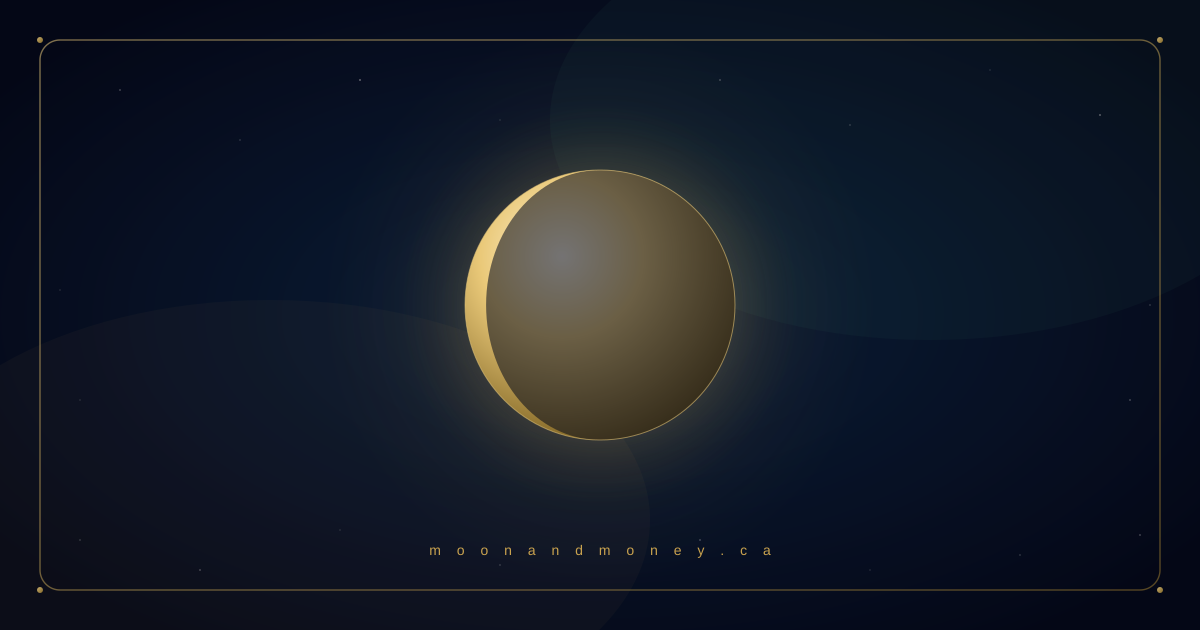
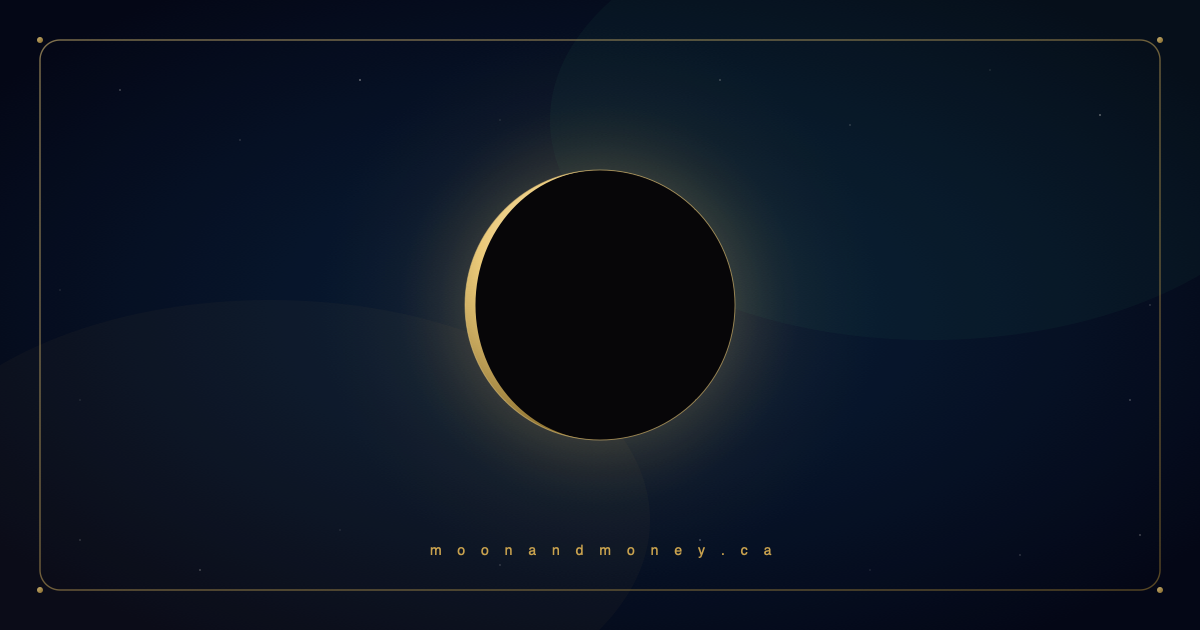
OG moon matches the hero: solid obsidian shadow at full opacity
Laura 2026-06-12: 'make the OG black in the middle at new moon so
it matches the hero on the homepage. Black and gold depending on
what phase the moon is in.'

scripts/og-moon-phase.py:
  SHADOW_OPACITY  0.55  → 1.0       (solid, no luminous-through)
  SHADOW_FILL    #03081A → #070608  (--obsidian, matches site)

This makes the OG read exactly like .moon-shadow on the homepage:
solid black at new moon, solid gold at full moon, half-and-half at
the quarters. The previous "keep the gold luminous underneath"
design is intentionally out — Laura wants the literal phase look.

Regenerated social.png for today (phase 0.94, waning crescent, ~4%
illuminated — thin gold sliver on the left, solid black disc).
Cache-buster bumped to ?v=20260613 in all 26 HTML pages so social
crawlers refetch immediately.

The existing daily GitHub Action (.github/workflows/og-moon-phase.yml)
will re-fire tomorrow at 04:17 UTC and every subsequent morning, so
the share preview tracks the actual sky on its own.

Changed region(s): [[0.37, 0.2714, 0.6167, 0.7238]]

diff --git a/about.html b/about.html
@@ -6,11 +6,11 @@
 <title>The Ethos · Moon &amp; Money</title>
 <meta name="description" content="The story behind Moon & Money and Luna Wilde. Where astrology meets personal finance, and where the brand is going next."><meta property="og:type" content="website">
 <meta property="og:site_name" content="Moon &amp; Money">
-<meta property="og:image" content="https://moonandmoney.ca/assets/og/social.png?v=20260612">
+<meta property="og:image" content="https://moonandmoney.ca/assets/og/social.png?v=20260613">
 <meta property="og:image:width" content="1200">
 <meta property="og:image:height" content="630">
 <meta name="twitter:card" content="summary_large_image">
-<meta name="twitter:image" content="https://moonandmoney.ca/assets/og/social.png?v=20260612">
+<meta name="twitter:image" content="https://moonandmoney.ca/assets/og/social.png?v=20260613">
 
 <link rel="preconnect" href="https://fonts.googleapis.com">
 <link rel="preconnect" href="https://fonts.gstatic.com" crossorigin>

diff --git a/archive.html b/archive.html
@@ -6,11 +6,11 @@
 <title>The Archive · Moon &amp; Money</title>
 <meta name="description" content="The Moon & Money archive. Every Friday reading, free to read in full. Personal finance, read through astrology."><meta property="og:type" content="website">
 <meta property="og:site_name" content="Moon &amp; Money">
-<meta property="og:image" content="https://moonandmoney.ca/assets/og/social.png?v=20260612">
+<meta property="og:image" content="https://moonandmoney.ca/assets/og/social.png?v=20260613">
 <meta property="og:image:width" content="1200">
 <meta property="og:image:height" content="630">
 <meta name="twitter:card" content="summary_large_image">
-<meta name="twitter:image" content="https://moonandmoney.ca/assets/og/social.png?v=20260612">
+<meta name="twitter:image" content="https://moonandmoney.ca/assets/og/social.png?v=20260613">
 
 <link rel="preconnect" href="https://fonts.googleapis.com">
 <link rel="preconnect" href="https://fonts.gstatic.com" crossorigin>

diff --git a/article.html b/article.html
@@ -6,11 +6,11 @@
 <title>Reading · Moon &amp; Money</title>
 <meta name="description" content="A Moon & Money reading. Personal finance through the astrological lens, by Luna Wilde. Free to read on the website."><meta property="og:type" content="website">
 <meta property="og:site_name" content="Moon &amp; Money">
-<meta property="og:image" content="https://moonandmoney.ca/assets/og/social.png?v=20260612">
+<meta property="og:image" content="https://moonandmoney.ca/assets/og/social.png?v=20260613">
 <meta property="og:image:width" content="1200">
 <meta property="og:image:height" content="630">
 <meta name="twitter:card" content="summary_large_image">
-<meta name="twitter:image" content="https://moonandmoney.ca/assets/og/social.png?v=20260612">
+<meta name="twitter:image" content="https://moonandmoney.ca/assets/og/social.png?v=20260613">
 
 <link rel="preconnect" href="https://fonts.googleapis.com">
 <link rel="preconnect" href="https://fonts.gstatic.com" crossorigin>

diff --git a/calendar.html b/calendar.html
@@ -7,11 +7,11 @@
 <meta name="description" content="Every day of 2026, the sign the Moon is moving through and the money mood that comes with it. Phases, ingresses, eclipses, retrogrades, all in your timezone.">
 <meta property="og:type" content="website">
 <meta property="og:site_name" content="Moon &amp; Money">
-<meta property="og:image" content="https://moonandmoney.ca/assets/og/social.png?v=20260612">
+<meta property="og:image" content="https://moonandmoney.ca/assets/og/social.png?v=20260613">
 <meta property="og:image:width" content="1200">
 <meta property="og:image:height" content="630">
 <meta name="twitter:card" content="summary_large_image">
-<meta name="twitter:image" content="https://moonandmoney.ca/assets/og/social.png?v=20260612">
+<meta name="twitter:image" content="https://moonandmoney.ca/assets/og/social.png?v=20260613">
 
 <link rel="preconnect" href="https://fonts.googleapis.com">
 <link rel="preconnect" href="https://fonts.gstatic.com" crossorigin>

diff --git a/courses.html b/courses.html
@@ -6,11 +6,11 @@
 <title>The Academy · Moon &amp; Money</title>
 <meta name="description" content="The Moon & Money Academy. Guided lunar money courses, coming soon. Deeper work, self-paced, in the Moon & Money voice."><meta property="og:type" content="website">
 <meta property="og:site_name" content="Moon &amp; Money">
-<meta property="og:image" content="https://moonandmoney.ca/assets/og/social.png?v=20260612">
+<meta property="og:image" content="https://moonandmoney.ca/assets/og/social.png?v=20260613">
 <meta property="og:image:width" content="1200">
 <meta property="og:image:height" content="630">
 <meta name="twitter:card" content="summary_large_image">
-<meta name="twitter:image" content="https://moonandmoney.ca/assets/og/social.png?v=20260612">
+<meta name="twitter:image" content="https://moonandmoney.ca/assets/og/social.png?v=20260613">
 
 <link rel="preconnect" href="https://fonts.googleapis.com">
 <link rel="preconnect" href="https://fonts.gstatic.com" crossorigin>

diff --git a/draw.html b/draw.html
@@ -6,11 +6,11 @@
 <title>Moon Card · Moon &amp; Money</title>
 <meta name="description" content="One card a day, drawn by the Moon's sign. A recognition, a whisper, and one money move. From Moon & Money by Luna Wilde."><meta property="og:type" content="website">
 <meta property="og:site_name" content="Moon &amp; Money">
-<meta property="og:image" content="https://moonandmoney.ca/assets/og/social.png?v=20260612">
+<meta property="og:image" content="https://moonandmoney.ca/assets/og/social.png?v=20260613">
 <meta property="og:image:width" content="1200">
 <meta property="og:image:height" content="630">
 <meta name="twitter:card" content="summary_large_image">
-<meta name="twitter:image" content="https://moonandmoney.ca/assets/og/social.png?v=20260612">
+<meta name="twitter:image" content="https://moonandmoney.ca/assets/og/social.png?v=20260613">
 
 <link rel="preconnect" href="https://fonts.googleapis.com">
 <link rel="preconnect" href="https://fonts.gstatic.com" crossorigin>

diff --git a/fifth-moon.html b/fifth-moon.html
@@ -7,11 +7,11 @@
 <meta name="description" content="The Money Chart loyalty card. Four charts mapped, the fifth is on the house. Buy a Money Chart and your card begins.">
 <meta property="og:type" content="website">
 <meta property="og:site_name" content="Moon &amp; Money">
-<meta property="og:image" content="https://moonandmoney.ca/assets/og/social.png?v=20260612">
+<meta property="og:image" content="https://moonandmoney.ca/assets/og/social.png?v=20260613">
 <meta property="og:image:width" content="1200">
 <meta property="og:image:height" content="630">
 <meta name="twitter:card" content="summary_large_image">
-<meta name="twitter:image" content="https://moonandmoney.ca/assets/og/social.png?v=20260612">
+<meta name="twitter:image" content="https://moonandmoney.ca/assets/og/social.png?v=20260613">
 
 <link rel="preconnect" href="https://fonts.googleapis.com">
 <link rel="preconnect" href="https://fonts.gstatic.com" crossorigin>

diff --git a/houses.html b/houses.html
@@ -8,11 +8,11 @@
 <meta property="og:title" content="The 12 Houses · Moon &amp; Money">
 <meta property="og:description" content="A teaching reference for the twelve astrological houses, read through the lens of money and self-reflection.">
 <meta property="og:site_name" content="Moon &amp; Money">
-<meta property="og:image" content="https://moonandmoney.ca/assets/og/social.png?v=20260612">
+<meta property="og:image" content="https://moonandmoney.ca/assets/og/social.png?v=20260613">
 <meta property="og:image:width" content="1200">
 <meta property="og:image:height" content="630">
 <meta name="twitter:card" content="summary_large_image">
-<meta name="twitter:image" content="https://moonandmoney.ca/assets/og/social.png?v=20260612">
+<meta name="twitter:image" content="https://moonandmoney.ca/assets/og/social.png?v=20260613">
 
 <link rel="preconnect" href="https://fonts.googleapis.com">
 <link rel="preconnect" href="https://fonts.gstatic.com" crossorigin>

diff --git a/index.html b/index.html
@@ -13,14 +13,14 @@
 <meta property="og:title" content="Moon &amp; Money">
 <meta property="og:description" content="Where the moon meets your money. Personal finance, read through astrology.">
 <meta property="og:url" content="https://moonandmoney.ca/">
-<meta property="og:image" content="https://moonandmoney.ca/assets/og/social.png?v=20260612">
+<meta property="og:image" content="https://moonandmoney.ca/assets/og/social.png?v=20260613">
 <meta property="og:image:width" content="1200">
 <meta property="og:image:height" content="630">
 <meta property="og:image:alt" content="A luminous gold moon on a starry sky. Moon & Money — where the moon meets your money.">
 <meta name="twitter:card" content="summary_large_image">
 <meta name="twitter:title" content="Moon &amp; Money">
 <meta name="twitter:description" content="Where the moon meets your money. Personal finance, read through astrology.">
-<meta name="twitter:image" content="https://moonandmoney.ca/assets/og/social.png?v=20260612">
+<meta name="twitter:image" content="https://moonandmoney.ca/assets/og/social.png?v=20260613">
 <link rel="preconnect" href="https://fonts.googleapis.com">
 <link rel="preconnect" href="https://fonts.gstatic.com" crossorigin>
 <link rel="manifest" href="/manifest.webmanifest"><link rel="apple-touch-icon" href="/assets/og/apple-touch-icon.png"><meta name="theme-color" content="#070608"><meta name="apple-mobile-web-app-title" content="Moon & Money"><meta name="apple-mobile-web-app-capable" content="yes"><meta name="apple-mobile-web-app-status-bar-style" content="black-translucent"><link rel="stylesheet" href="https://fonts.googleapis.com/css2?family=Cinzel:wght@400;500;600&family=Cormorant+Garamond:ital,wght@0,400;0,500;0,600;1,400&family=Jost:wght@300;400;500&family=Noto+Sans+Symbols+2&display=swap"><link rel="stylesheet" href="assets/css/styles.css">

diff --git a/money-chart.html b/money-chart.html
@@ -6,11 +6,11 @@
 <title>The Money Chart · Moon &amp; Money</title>
 <meta name="description" content="The Money Chart. Read for you alone. Eight pages, generated by the Moon & Money astro-finance framework and sent to your inbox. Your money temperament, timing and patterns, drawn from your birth chart."><meta property="og:type" content="website">
 <meta property="og:site_name" content="Moon &amp; Money">
-<meta property="og:image" content="https://moonandmoney.ca/assets/og/social.png?v=20260612">
+<meta property="og:image" content="https://moonandmoney.ca/assets/og/social.png?v=20260613">
 <meta property="og:image:width" content="1200">
 <meta property="og:image:height" content="630">
 <meta name="twitter:card" content="summary_large_image">
-<meta name="twitter:image" content="https://moonandmoney.ca/assets/og/social.png?v=20260612">
+<meta name="twitter:image" content="https://moonandmoney.ca/assets/og/social.png?v=20260613">
 
 <link rel="preconnect" href="https://fonts.googleapis.com">
 <link rel="preconnect" href="https://fonts.gstatic.com" crossorigin>

diff --git a/money-journal.html b/money-journal.html
@@ -9,11 +9,11 @@
 <meta property="og:title" content="Money Journal · Moon &amp; Money">
 <meta property="og:description" content="A contemplative money journal. Phase-aware prompts for noticing and slowly rewriting the money story you came in with.">
 <meta property="og:site_name" content="Moon &amp; Money">
-<meta property="og:image" content="https://moonandmoney.ca/assets/og/social.png?v=20260612">
+<meta property="og:image" content="https://moonandmoney.ca/assets/og/social.png?v=20260613">
 <meta property="og:image:width" content="1200">
 <meta property="og:image:height" content="630">
 <meta name="twitter:card" content="summary_large_image">
-<meta name="twitter:image" content="https://moonandmoney.ca/assets/og/social.png?v=20260612">
+<meta name="twitter:image" content="https://moonandmoney.ca/assets/og/social.png?v=20260613">
 
 <link rel="preconnect" href="https://fonts.googleapis.com">
 <link rel="preconnect" href="https://fonts.gstatic.com" crossorigin>

diff --git a/moon-money.html b/moon-money.html
@@ -9,11 +9,11 @@
 <meta property="og:title" content="Moon Money · Moon & Money">
 <meta property="og:description" content="How your Moon sign feels about money — the emotional money pattern of each of the twelve signs. Free teaching reference.">
 <meta property="og:site_name" content="Moon &amp; Money">
-<meta property="og:image" content="https://moonandmoney.ca/assets/og/social.png?v=20260612">
+<meta property="og:image" content="https://moonandmoney.ca/assets/og/social.png?v=20260613">
 <meta property="og:image:width" content="1200">
 <meta property="og:image:height" content="630">
 <meta name="twitter:card" content="summary_large_image">
-<meta name="twitter:image" content="https://moonandmoney.ca/assets/og/social.png?v=20260612">
+<meta name="twitter:image" content="https://moonandmoney.ca/assets/og/social.png?v=20260613">
 
 <link rel="preconnect" href="https://fonts.googleapis.com">
 <link rel="preconnect" href="https://fonts.gstatic.com" crossorigin>